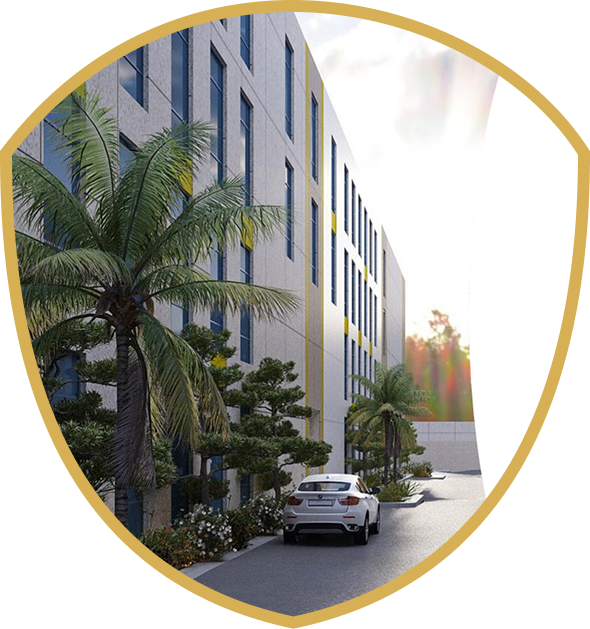
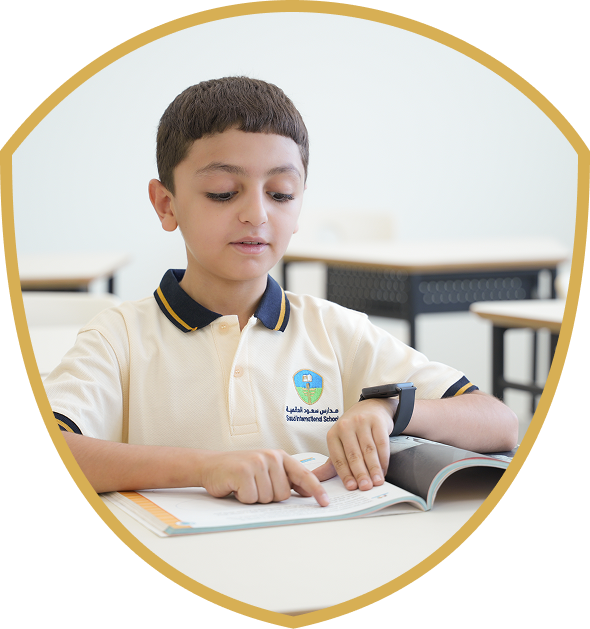
chore: general fixes

diff --git a/resources/views/layouts/footer.blade.php b/resources/views/layouts/footer.blade.php
@@ -5,7 +5,6 @@
     
     $emails = json_decode(getSetting('emails')->value);
     $phones = json_decode(getSetting('phones')->value);
-    $address = getSetting('address');
     $googleMapsUrl = getSetting('google_maps_url');
 
     $facebookUrl = getSetting('social_facebook_url');
@@ -53,16 +52,16 @@
                             </h4>
                             
                             <p>
-                                @if($address)
-                                    @if($googleMapsUrl && !empty($googleMapsUrl->value))
-                                        <a href="{{$googleMapsUrl->value}}" target="_blank" class="text-primary">
-                                            {{$address->value}}
-                                        </a>
-                                    @else
-                                        {{$address->value}}
-                                    @endif
-                                    <br /> 
+                                @if($googleMapsUrl && !empty($googleMapsUrl->value))
+                                    <a href="{{$googleMapsUrl->value}}" target="_blank" class="text-primary">
+                                        {{getLanguageKeyLocalTranslation('footer_address_placeholder')}}
+                                    </a>
+                                @else
+                                    {{getLanguageKeyLocalTranslation('footer_address_placeholder')}}
                                 @endif
+
+                                <br /> 
+
                                 @if($emails && is_array($emails))
                                     @foreach ($emails as $email)
                                         <a href="mailto:{{$email}}" class="text-primary">
@@ -74,8 +73,8 @@
                                 @if($phones && is_array($phones))
                                     @if($emails && is_array($emails))<br />@endif
                                     @foreach ($phones as $phone)
-                                        <a href="https://wa.me/{{ preg_replace('/\D+/', '', $phone) }}" class="text-primary">
-                                            {{$phone}}
+                                        <a href="https://wa.me/{{ preg_replace('/\D+/', '', $phone) }}" class="text-primary" dir="ltr">
+                                            {{$phone}} <i class="uil uil-whatsapp" style="color: #25D366;"></i>
                                         </a>
                                         @if(!$loop->last)<br />@endif
                                     @endforeach
@@ -149,6 +148,12 @@
                                 @if($snapchatUrl && !empty($snapchatUrl->value))
                                     <a href="{{$snapchatUrl->value}}">
                                         <i class="uil uil-snapchat-ghost"></i>
+                                    </a>
+                                @endif
+
+                                @if(!empty($googleMapsUrl->value))
+                                    <a href="{{$googleMapsUrl->value}}">
+                                        <i class="uil uil-map-marker"></i>
                                     </a>
                                 @endif
                             </nav>

diff --git a/resources/views/contact.blade.php b/resources/views/contact.blade.php
@@ -5,7 +5,6 @@
 
     $emails = json_decode(getSetting('emails')->value);
     $phones = json_decode(getSetting('phones')->value);
-    $address = getSetting('address');
 @endphp
 
 @extends('layouts.master')
@@ -141,18 +140,16 @@
                             <h5 class="mb-1">
                                 {{getLanguageKeyLocalTranslation('contact_page_address_title')}}                    
                             </h5>
-                            @if($address)
+                            @if($googleMapUrl && !empty($googleMapUrl->value))
                                 <address>
                                     <p>
-                                        @if($googleMapUrl && !empty($googleMapUrl->value))
-                                            <a href="{{$googleMapUrl->value}}" target="_blank" class="text-primary">
-                                                {{$address->value}}
-                                            </a>
-                                        @else
-                                            {{$address->value}}
-                                        @endif
+                                        <a href="{{$googleMapUrl->value}}" target="_blank" class="text-primary">
+                                            {{getLanguageKeyLocalTranslation('footer_address_placeholder')}}
+                                        </a>
                                     </p>
                                 </address>
+                            @else
+                                {{getLanguageKeyLocalTranslation('footer_address_placeholder')}}
                             @endif
                         </div>
                     </div>
@@ -169,7 +166,9 @@
                             @if($phones && is_array($phones))
                                 @foreach ($phones as $phone)
                                     <p>
-                                        <a href="https://wa.me/{{ preg_replace('/\D+/', '', $phone) }}" class="text-primary">{{$phone}}</a> <br class="d-none d-md-block">
+                                        <a href="https://wa.me/{{ preg_replace('/\D+/', '', $phone) }}" class="text-primary" dir="ltr">
+                                            {{$phone}} <i class="uil uil-whatsapp" style="color: #25D366;"></i>
+                                        </a> <br class="d-none d-md-block">
                                     </p>
                                 @endforeach
                             @endif

diff --git a/database/seeders/LanguageTranslationSeeder.php b/database/seeders/LanguageTranslationSeeder.php
@@ -148,6 +148,10 @@ class LanguageTranslationSeeder extends Seeder
                 'en' => 'Follow Us',
                 'ar' => 'تابعنا'
             ],
+            'footer_address_placeholder' => [
+                'en' => 'Saud International School, Abi Al Abbas Al Shafei Street, Hiteen District, Riyadh, Kingdom of Saudi Arabia.',
+                'ar' => 'مدارس سعود العالمية، شارع أبي العباس الشافعي، حي حطين، الرياض، المملكة العربية السعودية'
+            ],
             'guidelines_page_collapse_title' => [
                 'en' => 'Guidelines',
                 'ar' => 'الإرشادات'
@@ -655,22 +659,6 @@ class LanguageTranslationSeeder extends Seeder
             'navbar_search_form_placeholder' => [
                 'en' => 'Type keyword and hit enter',
                 'ar' => 'اكتب كلمة مفتاحية واضغط إنتر'
-            ],
-            'privacy_popup_title' => [
-                'en' => 'Privacy Policy',
-                'ar' => 'سياسة الخصوصية'
-            ],
-            'privacy_popup_description' => [
-                'en' => 'Please read our privacy policy to understand how we use your data. Continuing means you agree to our policy.',
-                'ar' => 'يرجى قراءة سياسة الخصوصية لفهم كيفية استخدامنا لبياناتك. الاستمرار يعني موافقتك على السياسة.'
-            ],
-            'privacy_popup_button_read_more' => [
-                'en' => 'Privacy Policy',
-                'ar' => 'سياسة الخصوصية'
-            ],
-            'privacy_popup_button' => [
-                'en' => 'Agree',
-                'ar' => 'موافق'
             ],
             'recaptcha_error' => [
                 'en' => 'Security verification failed. Please try again.',

diff --git a/database/seeders/SettingsSeeder.php b/database/seeders/SettingsSeeder.php
@@ -71,7 +71,7 @@ class SettingsSeeder extends Seeder
             [
                 'key' => 'google_maps_embed_url',
                 'type' => 'text',
-                'value' => 'https://www.google.com/maps/embed?pb=!1m17!1m12!1m3!1d3491.1677000940404!2d46.61173627536739!3d24.752069478000166!2m3!1f0!2f0!3f0!3m2!1i1024!2i768!4f13.1!3m2!1m1!2zMjTCsDQ1JzA3LjUiTiA0NsKwMzYnNTEuNSJF!5e1!3m2!1sen!2sdz!4v1754475328828!5m2!1sen!2sdz',
+                'value' => 'https://www.google.com/maps/embed?pb=!1m18!1m12!1m3!1d3491.184195429717!2d46.614758599999995!3d24.7514823!2m3!1f0!2f0!3f0!3m2!1i1024!2i768!4f13.1!3m3!1m2!1s0x3e2ee3a97f2ef8f9%3A0x191e451556a20c7a!2z2YXYr9in2LHYsyDYs9i52YjYryDYp9mE2LnYp9mE2YXZitipIHwgU2F1ZCBJbnRlcm5hdGlvbmFsIFNjaG9vbA!5e1!3m2!1sen!2sdz!4v1754580709950!5m2!1sen!2sdz',
                 'description' => 'Google Maps url that will be used in the map embed',
                 'group' => 'google',
                 'is_encrypted' => false,
@@ -80,7 +80,7 @@ class SettingsSeeder extends Seeder
             [
                 'key' => 'google_maps_url',
                 'type' => 'text',
-                'value' => 'https://maps.app.goo.gl/jm83RmQLtMY2sRee7',
+                'value' => 'https://maps.app.goo.gl/2wzChEohJMe4BMp86',
                 'description' => 'Google Maps url that will be used in the map link',
                 'group' => 'google',
                 'is_encrypted' => false,

diff --git a/resources/views/index.blade.php b/resources/views/index.blade.php
@@ -277,9 +277,8 @@
                         @foreach ($albums as $album)   
                             <div class="swiper-slide">
                                 <figure class="hover-scale">
-                                    <img src="{{$album->thumbnailUrl}}" alt="{{$album->getLocalTranslation('title')}}" />
-                                    <a class="item-link" href="{{route('album', ['slug' => $album->slug])}}">
-                                        <i class="uil uil-link"></i>
+                                    <a href="{{route('album', ['slug' => $album->slug])}}">
+                                        <img src="{{$album->thumbnailUrl}}" alt="{{$album->getLocalTranslation('title')}}" />
                                     </a>
                                 </figure>
                             </div>

diff --git a/routes/web.php b/routes/web.php
@@ -314,8 +314,8 @@ Route::middleware(['auth', 'force.admin.english', 'handle.inertia'])->prefix('ad
 });
 
 Route::middleware(['set.locale'])->group(function () {
-    Route::get('home', [ControllersPagesController::class, 'index'])->name('index');
-    Route::get('', [ControllersPagesController::class, 'index'])->name('index');
+    Route::get('/', [ControllersPagesController::class, 'index'])->name('index');
+    Route::get('/home', [ControllersPagesController::class, 'index'])->name('index');
 
     Route::get('/visits', [ControllersPagesController::class, 'visits'])->name('visits');
     Route::get('/inquiries', [ControllersPagesController::class, 'inquiries'])->name('inquiries');

diff --git a/resources/views/layouts/header.blade.php b/resources/views/layouts/header.blade.php
@@ -66,7 +66,7 @@
                         </li>
 
                         <li class="nav-item d-none d-md-block me-6">
-                            <a class="nav-link" href="https://eregistration.sis.edu.sa/en-GB/Saud" target="_blank" rel="noopener noreferrer">
+                            <a class="nav-link" href="https://eregistration.sis.edu.sa" target="_blank" rel="noopener noreferrer">
                                 {{getLanguageKeyLocalTranslation('navbar_applications_nav_link')}}
                             </a>
                         </li>

diff --git a/app/Http/Controllers/Admin/BannersController.php b/app/Http/Controllers/Admin/BannersController.php
@@ -201,7 +201,6 @@ class BannersController extends Controller
             $file = $this->fileService->duplicateMediaFile($media, 'App\\Models\\Banner', $banner->id, true);
         }
 
-        if($banner->video) $banner->video->detach();
 
         if ($request->hasFile('video')) {
             if($banner->video) $banner->video->detach();

diff --git a/resources/views/layouts/master.blade.php b/resources/views/layouts/master.blade.php
@@ -56,8 +56,6 @@
             @include('layouts.header')
 
             @yield('content')
-
-            @include('layouts.privacy-popup')
         </div>
         <!-- END layout-wrapper -->
         @include('layouts.footer')
